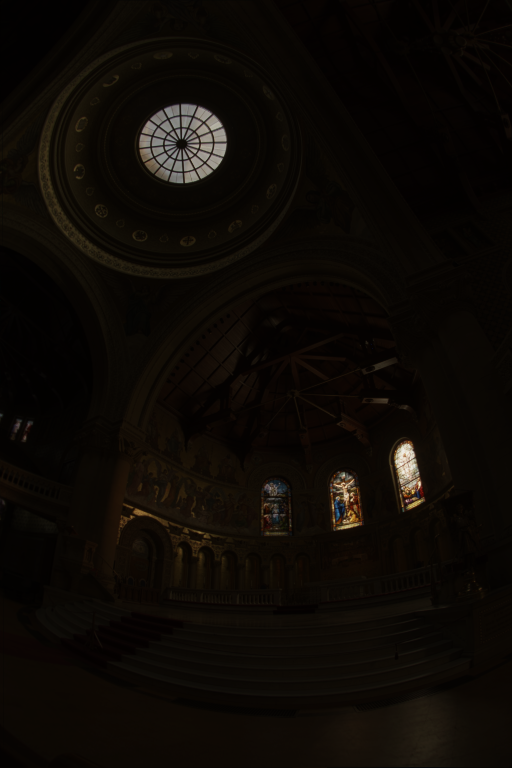
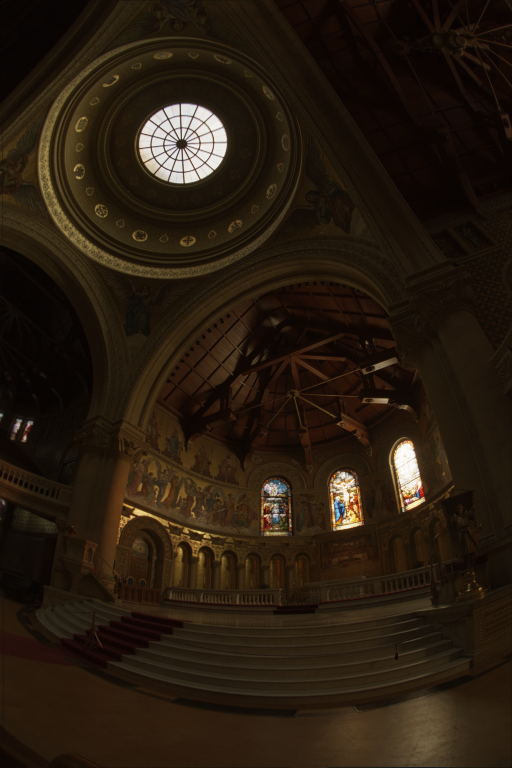
update readme

diff --git a/README.md b/README.md
@@ -39,15 +39,15 @@ To **assemble video**, install ffmpeg and type
 ```
 
 ### Easy
-Use alpha=10 and gamma=0.01 : 
+Use alpha=10 and gamma=0.1 : 
 ```bash
- dotnet run PhotoGENius pfm2png --input-pfm memorial.pfm --factor 10 --gamma 0.01 --output-png prova.png
+ dotnet run PhotoGENius pfm2png --input-pfm memorial.pfm --factor 10 --gamma 0.1 --output-png prova.png
  ```
 ![](PhotoGENius/prova.png)
 
-Use alpha=0.001 and gamma=2 : 
+Use alpha=0.01 and gamma=2 : 
 ```bash
- dotnet run PhotoGENius pfm2png --input-pfm memorial.pfm --factor 0.001 --gamma 2 --output-png prova2.png
+ dotnet run PhotoGENius pfm2png --input-pfm memorial.pfm --factor 0.01 --gamma 2 --output-png prova2.png
  ```
 ![](PhotoGENius/prova2.png)
 
